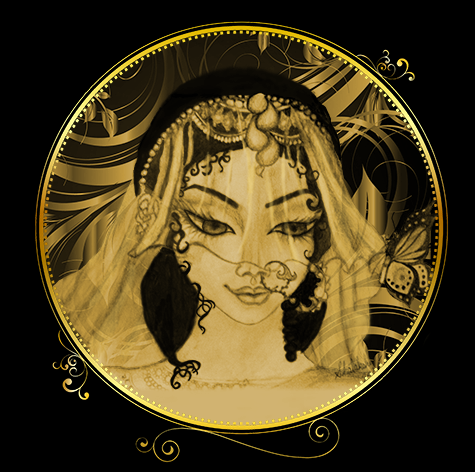
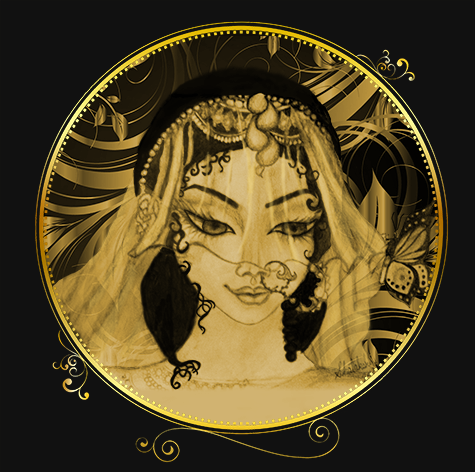
Add contact, biography, faq, thank you text. Update remove from cart image. Fix background color on index page.

diff --git a/common/templates/common/default.html b/common/templates/common/default.html
@@ -6,7 +6,7 @@
 		
 		</style>
 	</head>
-	<body bgcolor="#000000"> 
+	<body bgcolor="#111111"> 
 	<div style="position:abosolute; width:100%; height:800px; top:50%; margin-top: 150px; text-align:center;">
 		<a href="/home/">
 			<img border="0" src="/static/images/cover.png"/>
